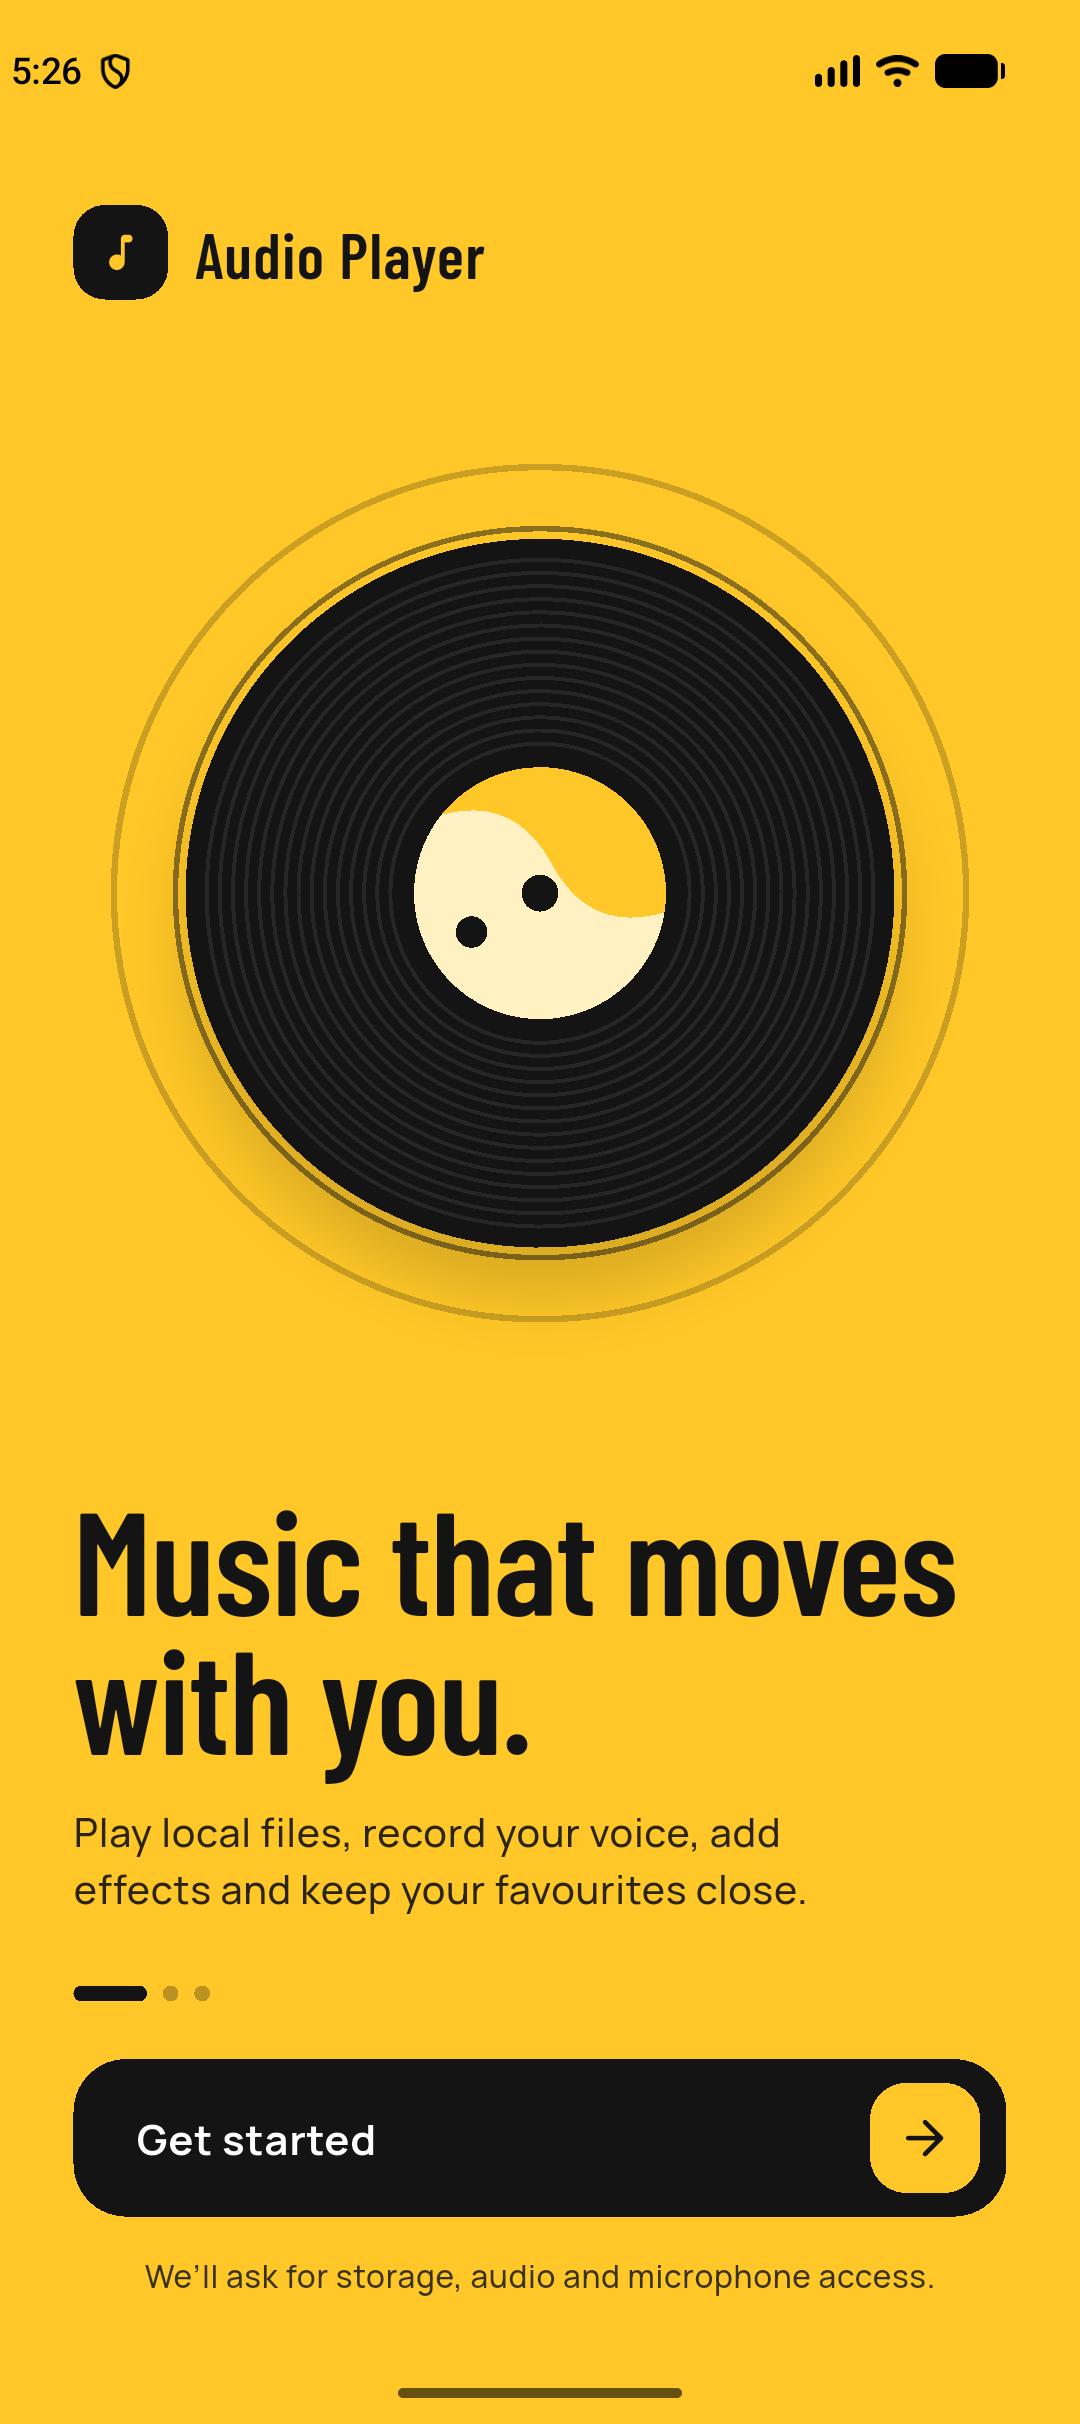
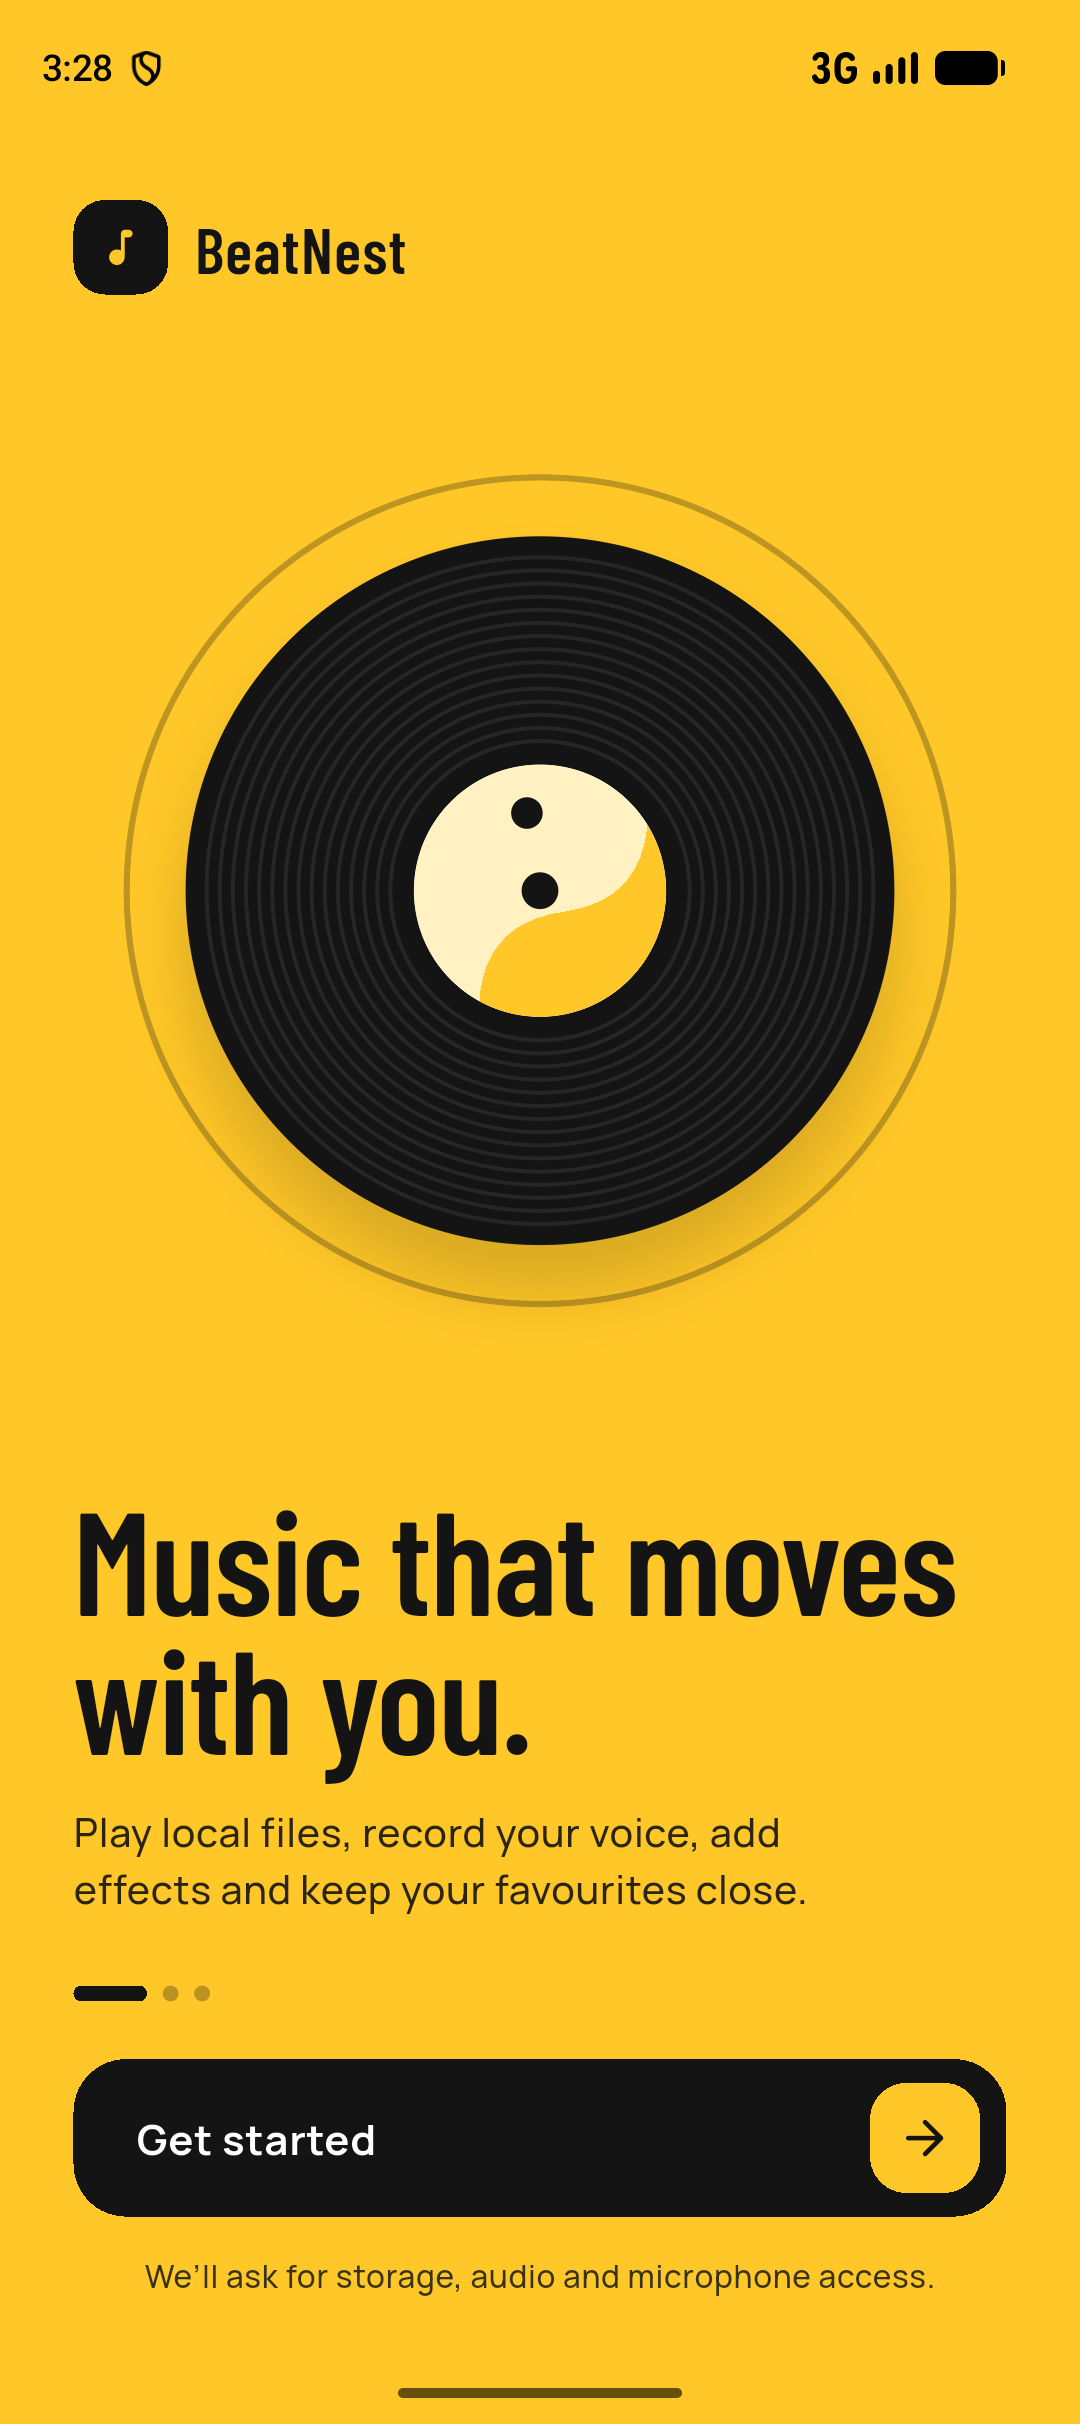
Rebrand app as BeatNest
Update app branding across the README, Android and iOS display names, and Flutter UI; refresh the documentation screenshots.

diff --git a/lib/screens/welcome_screen.dart b/lib/screens/welcome_screen.dart
@@ -66,7 +66,7 @@ class _WelcomeScreenState extends State<WelcomeScreen>
                   ),
                   const SizedBox(width: 10),
                   Text(
-                    'Audio Player',
+                    'BeatNest',
                     style: displayStyle(24).copyWith(letterSpacing: 0.5),
                   ),
                 ],

diff --git a/lib/main.dart b/lib/main.dart
@@ -42,7 +42,7 @@ class MyApp extends StatelessWidget {
 
     return MaterialApp(
       debugShowCheckedModeBanner: false,
-      title: 'Audio Player',
+      title: 'BeatNest',
       theme: base.copyWith(
         textTheme: base.textTheme.apply(bodyColor: kInk, displayColor: kInk),
         sliderTheme: SliderThemeData(

diff --git a/README.md b/README.md
@@ -1,6 +1,6 @@
-# 🎵 Flutter Audio Player
+# 🎵 BeatNest
 
-A cross-platform audio player built with Flutter. Play local audio files, record your voice, apply pitch and speed effects, keep a list of favourites and pick a colour theme, on Android and iOS.
+BeatNest is a cross-platform audio player built with Flutter. Play local audio files, record your voice, apply pitch and speed effects, keep a list of favourites and pick a colour theme, on Android and iOS.
 
 ## Screenshots
 
